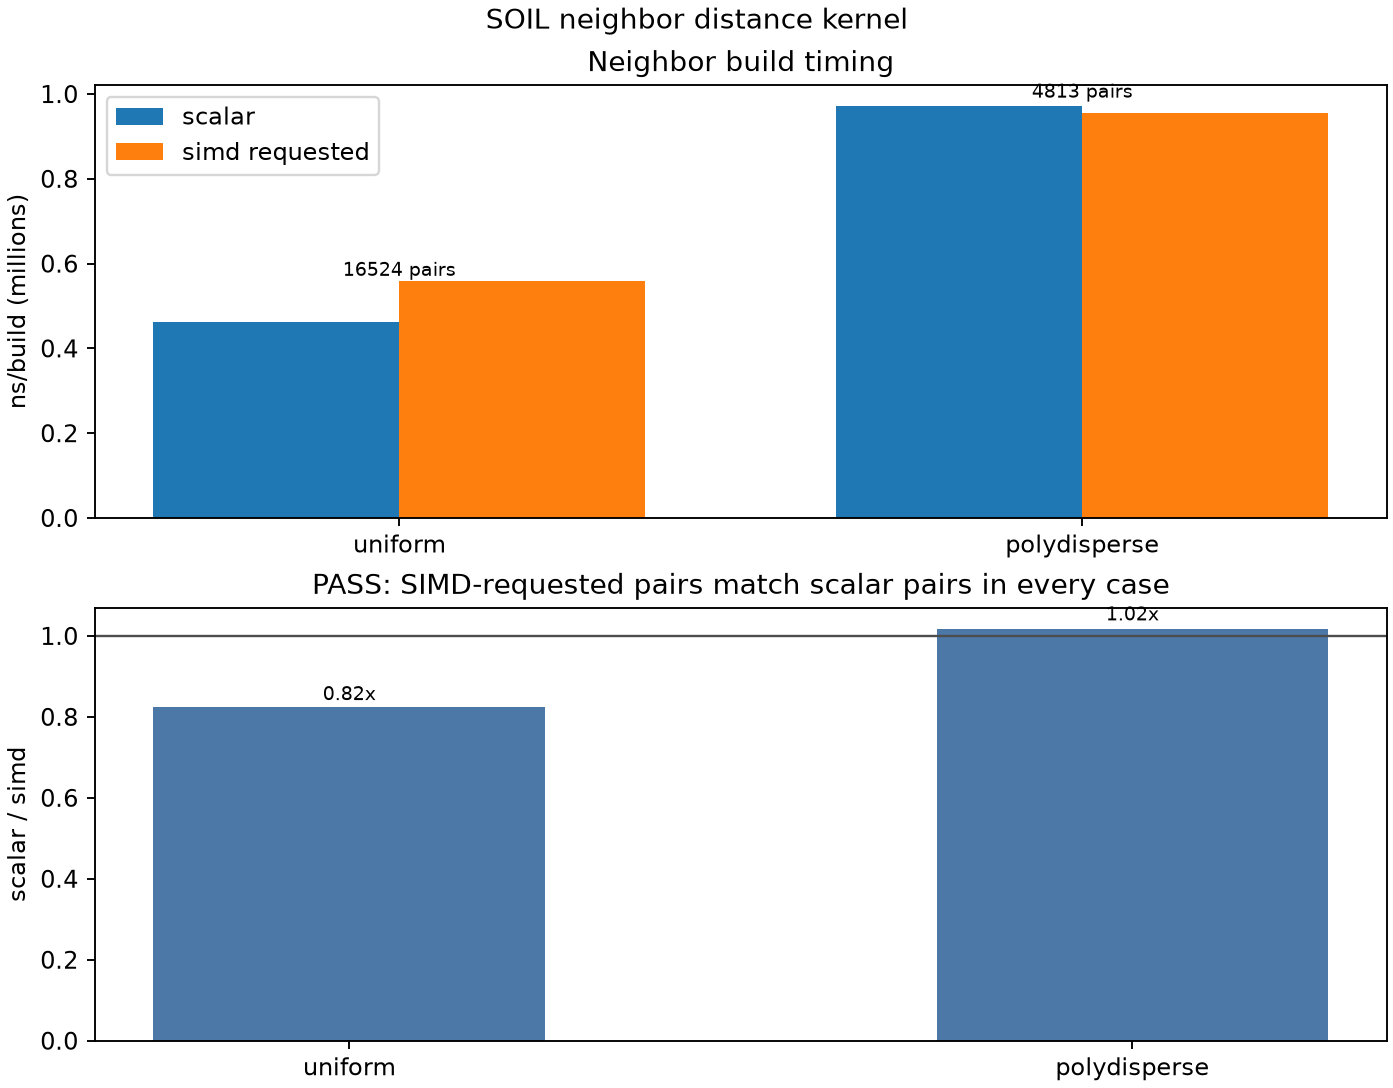
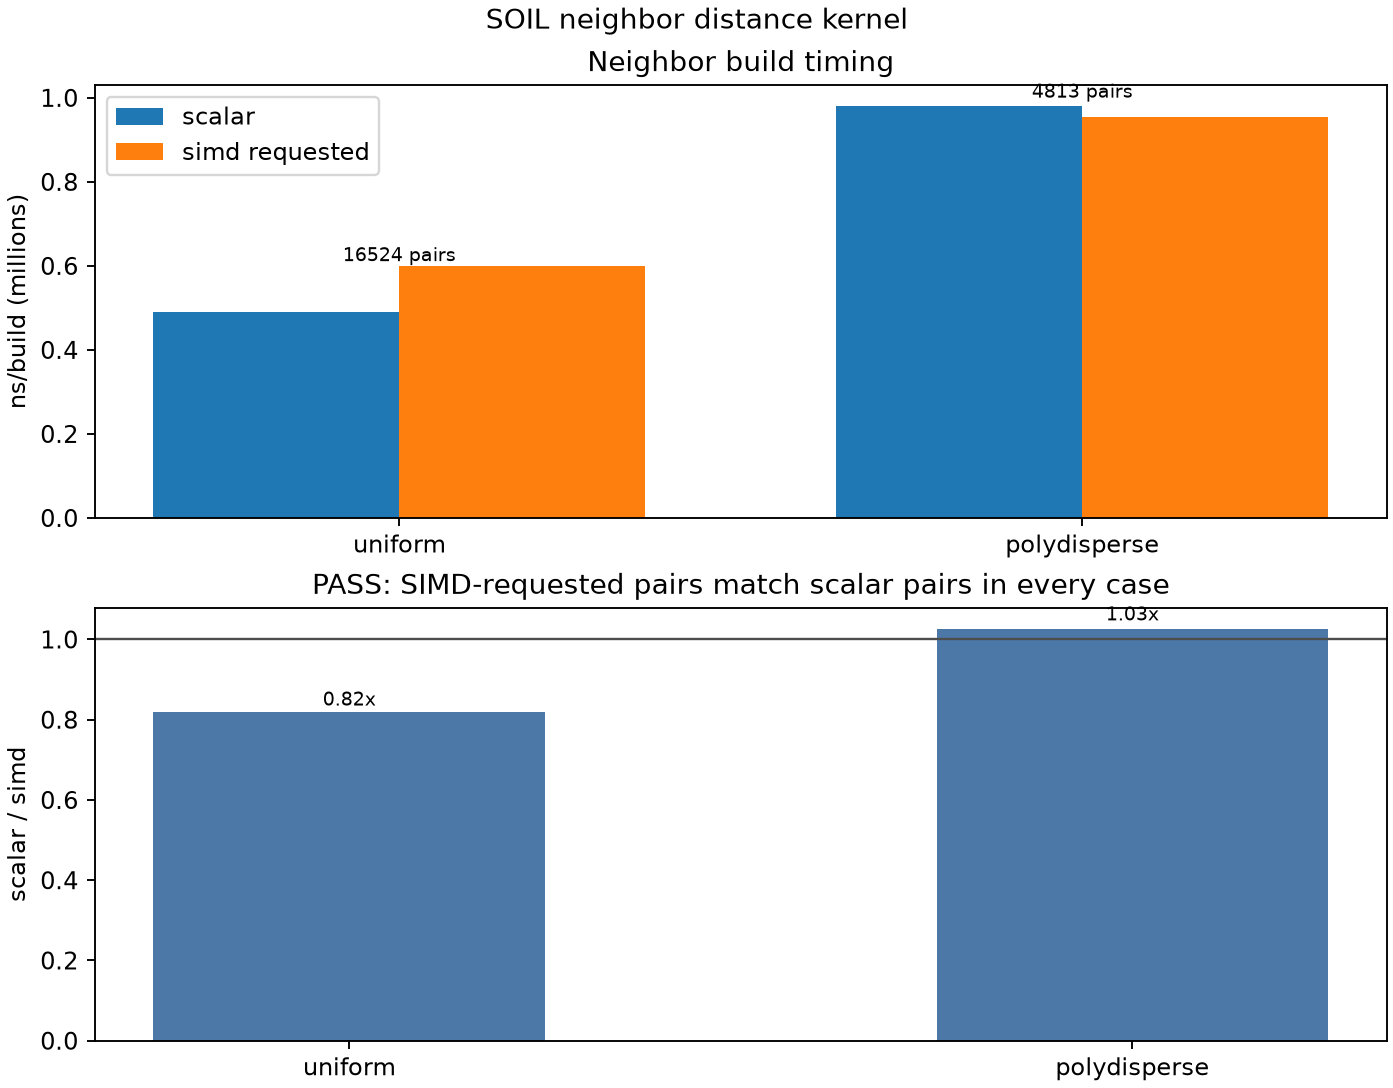
Use sorted positions for neighbor i reads

diff --git a/crates/soil_core/src/neighbor/binning.rs b/crates/soil_core/src/neighbor/binning.rs
@@ -906,8 +906,8 @@ pub fn bin_neighbor_list(
         for i in 0..nlocal {
             offsets.push(writer.len as u32);
             let my_cell = unsafe { *atom_cell.get_unchecked(i) } as usize;
-            let pi = unsafe { *atoms.pos.get_unchecked(i) };
-            let pi = [pi[0] as f64, pi[1] as f64, pi[2] as f64];
+            let self_pos = unsafe { *atom_sorted_idx.get_unchecked(i) } as usize;
+            let pi = unsafe { *sorted_pos.get_unchecked(self_pos) };
 
             if has_self {
                 let cell_start = unsafe { *bin_start.get_unchecked(my_cell) } as usize;
@@ -932,7 +932,6 @@ pub fn bin_neighbor_list(
                     // Full list: scan both sides of i's sorted position. This
                     // produces the same self-cell candidates without testing
                     // `j == i` for every atom in the cell.
-                    let self_pos = unsafe { *atom_sorted_idx.get_unchecked(i) } as usize;
                     unsafe {
                         append_uniform_range(
                             cell_start,
@@ -987,8 +986,8 @@ pub fn bin_neighbor_list(
         for i in 0..nlocal {
             offsets.push(writer.len as u32);
             let my_cell = unsafe { *atom_cell.get_unchecked(i) } as usize;
-            let pi = unsafe { *atoms.pos.get_unchecked(i) };
-            let pi = [pi[0] as f64, pi[1] as f64, pi[2] as f64];
+            let self_pos = unsafe { *atom_sorted_idx.get_unchecked(i) } as usize;
+            let pi = unsafe { *sorted_pos.get_unchecked(self_pos) };
             let si = unsafe { *atoms.cutoff_radius.get_unchecked(i) } as f64;
 
             if has_self {
@@ -1011,7 +1010,6 @@ pub fn bin_neighbor_list(
                         );
                     }
                 } else {
-                    let self_pos = unsafe { *atom_sorted_idx.get_unchecked(i) } as usize;
                     unsafe {
                         append_polydisperse_range(
                             cell_start,
